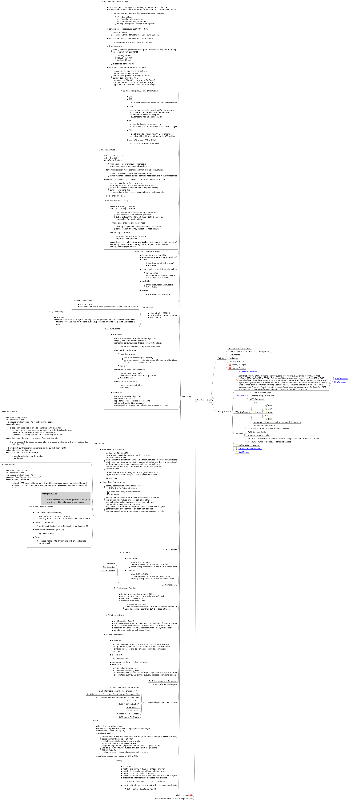
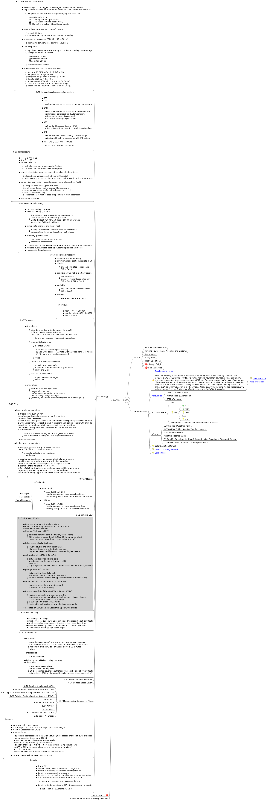
extended ATPL mind map

diff --git a/ATPL/Exam/ATPL.mm b/ATPL/Exam/ATPL.mm
@@ -10447,7 +10447,7 @@
   </body>
 </html></richcontent>
 </node>
-<node CREATED="1573330478270" ID="ID_990537658" MODIFIED="1573330567029">
+<node CREATED="1573330478270" FOLDED="true" ID="ID_990537658" MODIFIED="1573508734883">
 <richcontent TYPE="NODE"><html>
   <head>
     
@@ -10628,7 +10628,7 @@
   </body>
 </html></richcontent>
 </node>
-<node CREATED="1573330590146" ID="ID_1075915924" MODIFIED="1573505609184">
+<node CREATED="1573330590146" FOLDED="true" ID="ID_1075915924" MODIFIED="1573506480449">
 <richcontent TYPE="NODE"><html>
   <head>
     
@@ -10980,7 +10980,7 @@
 <node CREATED="1573408906409" ID="ID_1552787567" MODIFIED="1573408916592" TEXT="Frontal Passage"/>
 </node>
 <node CREATED="1573330721252" ID="ID_238729032" MODIFIED="1573330729412" TEXT="6.11 Complex Low"/>
-<node CREATED="1573330748611" ID="ID_68412790" MODIFIED="1573430952281">
+<node CREATED="1573330748611" ID="ID_68412790" MODIFIED="1573508666882">
 <richcontent TYPE="NODE"><html>
   <head>
     
@@ -11007,7 +11007,7 @@
 
         <ul>
           <li>
-            cold side from the core
+            cold side from the core (north: left, south: right)
           </li>
           <li>
             30kts isotachs closer than 90NM on 250mbar upper chart
@@ -11017,9 +11017,94 @@
           </li>
         </ul>
       </li>
+      <li>
+        follow seasonal ecliptic change
+
+        <ul>
+          <li>
+            lower altitudes and latitudes in winter
+          </li>
+          <li>
+            higher altitudes and latitudes in summer
+          </li>
+          <li>
+            higher temperature differences in winter: higher speeds
+          </li>
+        </ul>
+      </li>
+      <li>
+        subtropical jet (40000ft, 200hPa)
+
+        <ul>
+          <li>
+            between Hadley and Ferrel cells
+          </li>
+          <li>
+            westbound (north, cold left, warm right)
+          </li>
+          <li>
+            80-150kts
+          </li>
+          <li>
+            large adjacent continental cold land masses (Tibetan plateau): 400kts
+          </li>
+        </ul>
+      </li>
+      <li>
+        polar jet (30000ft, 300hPa)
+
+        <ul>
+          <li>
+            between Ferrel and Polar cells
+          </li>
+          <li>
+            westbound (south, cold right, warm left)
+          </li>
+          <li>
+            sinuous, disjoint, broken along polar front (core in warm sector)
+          </li>
+        </ul>
+      </li>
+      <li>
+        arctic front jet (10000-20000ft, 700-500hPa)
+
+        <ul>
+          <li>
+            northern hemisphere in winter months
+          </li>
+          <li>
+            Iceland to northern Norway
+          </li>
+        </ul>
+      </li>
+      <li>
+        tropical easterly jet (40000-45000ft, 200h-100hPa)
+
+        <ul>
+          <li>
+            northern hemisphere in summer months
+          </li>
+          <li>
+            large adjacent continental warm land masses (Tibetan plateau)
+          </li>
+          <li>
+            eastbound (north, cold left, warm right)
+          </li>
+          <li>
+            5-20deg north of equator, 100kts
+          </li>
+          <li>
+            replaced by subtropical jet in winter (opposite winds)
+          </li>
+        </ul>
+      </li>
+      <li>
+        depicted on SWCs and derivable from upper wind charts
+      </li>
     </ul>
   </body>
-</html></richcontent>
+</html>
+</richcontent>
 </node>
 <node CREATED="1573331153527" ID="ID_1872410311" MODIFIED="1573331730986">
 <richcontent TYPE="NODE"><html>
